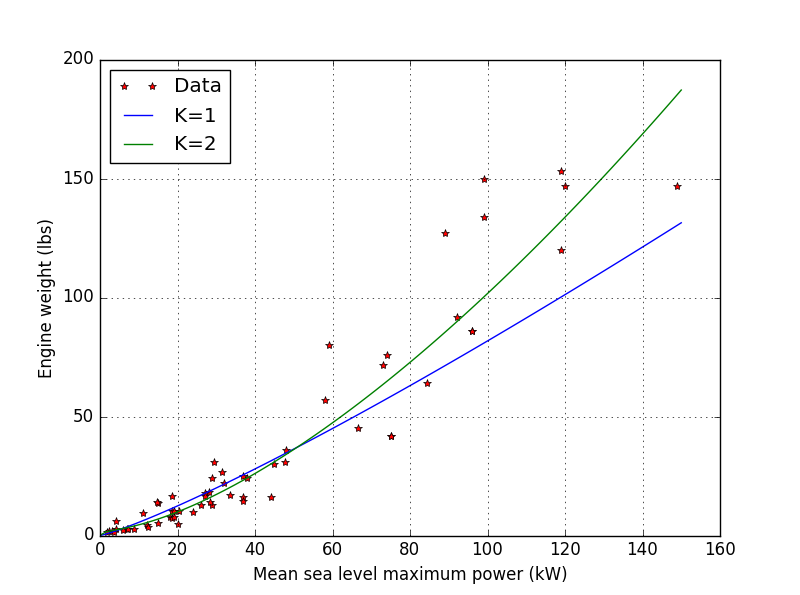
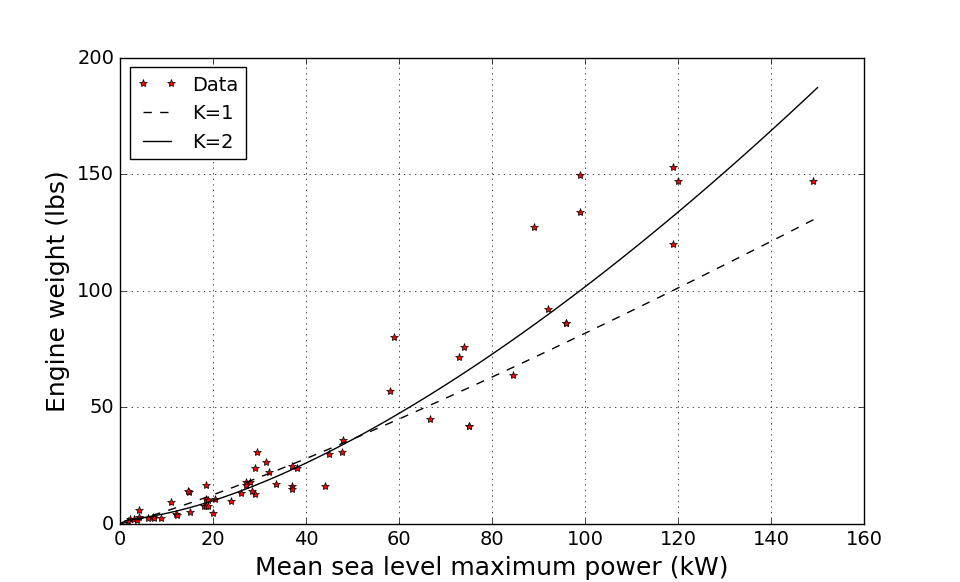
B/W PvsW plot.

diff --git a/enginefit/fitEnginePvsW.py b/enginefit/fitEnginePvsW.py
@@ -40,15 +40,27 @@ cstrt, rms_error = fit(logPin,logWin,K,Type)
 #           + 1.44 * (u_1)**2.90
 # rms_error 0.346
 
+# Enlarging fonts
+SMALL_SIZE = 14
+MEDIUM_SIZE = 18
+BIGGER_SIZE = 18
+
+plt.rc('font', size=SMALL_SIZE)          # controls default text sizes
+plt.rc('axes', titlesize=BIGGER_SIZE)     # fontsize of the axes title
+plt.rc('axes', labelsize=MEDIUM_SIZE)    # fontsize of the x and y labels
+plt.rc('xtick', labelsize=SMALL_SIZE)    # fontsize of the tick labels
+plt.rc('ytick', labelsize=SMALL_SIZE)    # fontsize of the tick labels
+plt.rc('legend', fontsize=SMALL_SIZE)    # legend fontsize
+plt.rc('figure', titlesize=MEDIUM_SIZE)  # fontsize of the figure title
 
 # Plotting data
 plt.plot(P[indices]/1000,W[indices],'r*',label='Data')
 Pplot = np.linspace(1,150000,100)
-plt.plot(Pplot/1000,maxW*(0.984118 * (Pplot/maxP)**0.117039)**10,label='K=1')
+plt.plot(Pplot/1000,maxW*(0.984118 * (Pplot/maxP)**0.117039)**10,'k--',label='K=1')
 plt.plot(Pplot/1000, maxW*(0.00441* (Pplot/maxP)**0.759 +
-                           1.44* (Pplot/maxP)**2.90)**(1/1.92),label='K=2')
+                           1.44* (Pplot/maxP)**2.90)**(1/1.92),'k',label='K=2')
 plt.xlabel('Mean sea level maximum power (kW)')
 plt.ylabel('Engine weight (lbs)')
 plt.grid(True)
-plt.legend(loc=2)
+plt.legend(loc=2,fontsize=14)
 plt.show()
